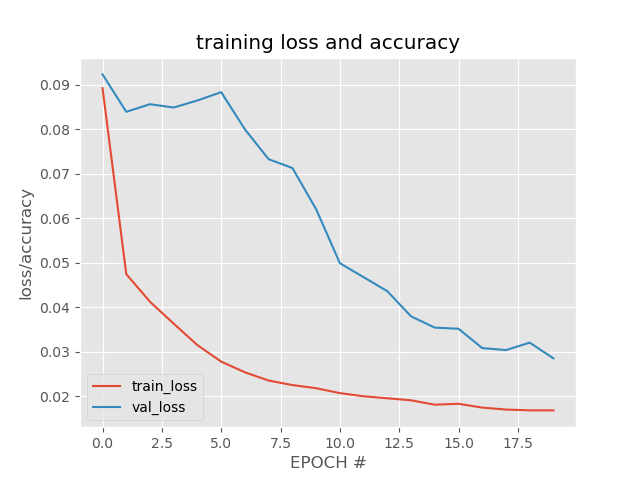
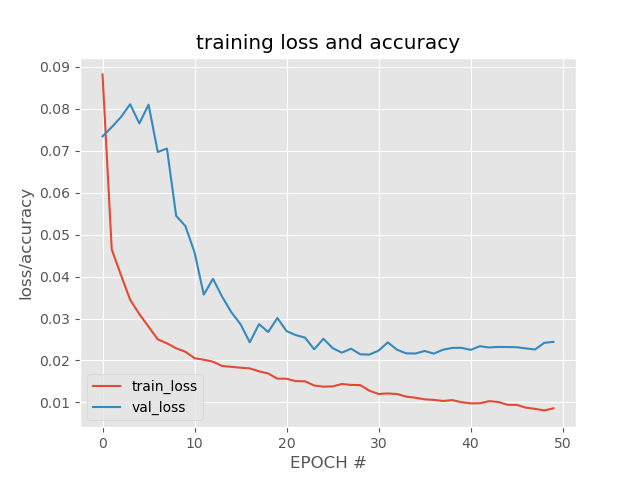
epoch 50

diff --git a/search.py b/search.py
@@ -93,12 +93,17 @@ for i in queryIdxs:
         images.append(image)
 
     #display the query image
-    query = (testX[i] * 225).astype('uint8')
-    cv2.imshow("Query", query)
+    # query = (testX[i] * 225).astype('uint8')
+    # im = Image.open(query)
+    # Image._show(im)
+    # plt.imshow(query)
+    # plt.gray()
+    # plt.show()
+    # cv2.imshow("Query", query)
 
     
 
     #build a montage from the results and display it
-    # montage = build_montages(images, (252, 252), (10, 10))[0]
-    # cv2.imshow('Results', montage)
-    # cv2.waitKey(0)
+    montage = build_montages(images, (256,256), (10, 10))[0]
+    cv2.imshow('Results', montage)
+    cv2.waitKey(0)

diff --git a/train_autoencoder.py b/train_autoencoder.py
@@ -50,7 +50,7 @@ args = vars(ap.parse_args())
 
 #PREPARE TO TRAIN THE AUTOENCODER
 #initialise the number of epochs to train for, initial learning rate and batch size
-EPOCHS = 20
+EPOCHS = 50
 INIT_LR = 1e-3
 BS = 32
 #epochs = cycle through the full training set
